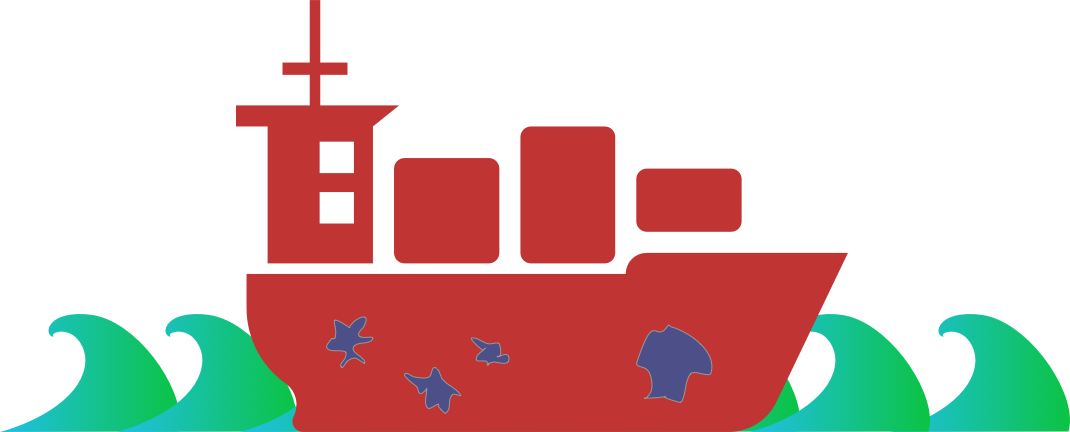
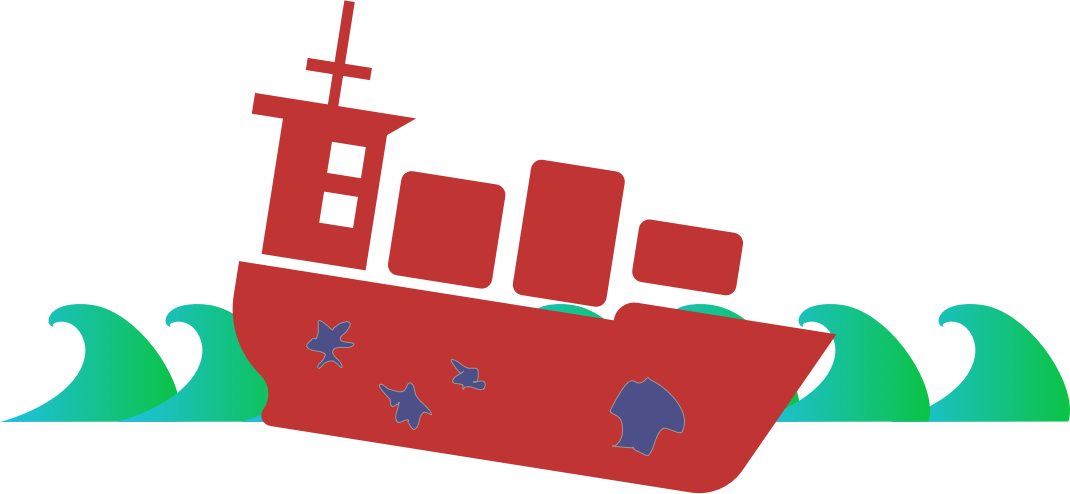
Blogging 2017-11-23

Changed region(s): [[0.0, 0.0, 1.0, 1.0], [0.5551, 0.7523, 0.6785, 0.9329], [0.4009, 0.7222, 0.4935, 0.8426]]

diff --git a/_posts/2000-01-01-in-the-weeds.md b/_posts/2000-01-01-in-the-weeds.md
@@ -93,14 +93,55 @@ Tree graphs are _great_ to show how certain agencies are causing a disproportion
 
 These graphs provided the political insurance needed to to approach the partner agencies on the behalf of the board, which is much safer than enduring the resentment engendered otherwise.
 
-When approaching the offending agency, it helps to have a plan.  In TX-601 we called these "Data Quality Action Plans" and consisted a list of all the errors needing to be repaired, and [SMART goals](https://en.wikipedia.org/wiki/SMART_criteria).  
+When approaching the troubled agency, it helps to have a plan.  In TX-601 we called these "Data Quality Action Plans" and consisted a list of all the errors needing to be repaired, and a [SMART goal](https://en.wikipedia.org/wiki/SMART_criteria).
 
-![](https://ladvien.com/images/boat-with-holes.png)
-
-No one will trust reports without good data
-Show Tree Graph
+By focusing on the agency which has the most data errors it is like you are on a ship with many holes, possibly sinking.  Before bailing water, or patching small holes, you patch the biggest, as it'll have the greatest impact on the entire ship
+![](https://ladvien.com/images/boat-with-holes.PNG)
 
 ## DTR 
+
+Define the relationship.  This may have already be done for you, but if it hasn't, please don't underestimate how powerful an agency's perception of your responsibilities.
+
+For example, within three months of starting I received a call from shelter intake staff.  He was upset because he wasn't able to scan-in clients.  He "didn't have time to troubleshoot" and suggested I drive down, which I did.  Shortly after I arrived I realized the problem was his computer was shorting--sparks were clear.  I let him know he would need to contact his IT department to get it addressed, to which he stated, "I thought you were the IT department?" After explaining I wasn't, he still insisted I fixed it since it kept him from recording HMIS data and "that was my job."
+
+Take time, and do it early, to explain to what your role is.  For me I listed bullets of what were my responsibilities and what were not:
+
+HMIS System Administrator Responsibilities
+
+* Data Quality
+* Timely enabling / disabling user permissions
+* Assessing software defects
+* Providing technical assistance
+* Conducting trainings on how to use the software
+* Facilitating oversight and guidance committees
+* Communicating with end-users when system issues impact their work
+* Technical assistance on producing CAPER
+* Technical assistance on producing APR
+* Technical assistance on running standard reports
+* Federal system reports:
+  * 1. System Performance Measures
+  * 2. Annual Homelessness Assessment Report
+  * 3. Point-in-Time (PIT)
+  * 4. Housing Inventory Count (HIC)
+  * 5. HUD Data Quality Report (HDQ)
+  * 6. Coordinated Entry Reports
+* Supporting ESG Participating Jurisdictions
+* Supporting COC Lead
+
+These responsibilities I would continually message.  It is important they are understood for both sides.  End-users need to know your are there to support their efforts.  _But_, it is also important they understand _how_ you can and may help.
+
+Along side this list of how we could help, I had a list of how we could not help (at least, not guaranteed assistance).
+
+_*NOT*_ HMIS System Administrator Responsibilities
+* Fixing equipment
+* Generating CAPER or APR on an agency's behalf
+* Fixing data errors created by an end-user(s)
+* Generating standard reports for an agency
+* Meeting (all) customization requests
+* Generating data or reports for domestic violence providers (as they are prohibited from participating in the HMIS)
+* Fulfilling custom report requests in an unrealistic time frame (we would advertise a five business day notice).
+* Providing routine trainings for less than four end-users.  Or, short notice ad hoc trainings.
+* Adjusting system reports to bolster performance (these request as insidious)
 
 ## Find _Your_ Tools
 
@@ -130,6 +171,26 @@ Taking care of the date = cook
 Pulling reports for you = your cook chewing your food
 
 ## Get a Help Desk
+
+If you are not already, you will become overcome with requests.  Everyone will be emailing you their wants like you're Santa Clause in November.  This is dangerous.  Your end-users only see their one request and they don't understand why it is taking you more than an hour to fulfill it.
+
+Please tell me you have staff?  HUD recommends having one FTE for every 75 end-users.  For us, this meant we should have had 3.73 FTEs, but we operated with 3.  However, your staff will do little good if everyone is sending their requests directly to you.
+
+Sure, you'll try forwarding the email to Joe, but then Joe gets sick and the request sits in his inbox for several days.
+
+Get a Help Desk.
+
+For us, we had next to no-budget for a help desk, so I spun up a server and used Drupal's ticket module to create a help desk.  This allowed us to implement a help desk for about $12.50.  Not too shabby.  
+
+Getting the end-users to use the help desk was painful.  Trying to convince them it was in their best interest was not easy.  But, eventually, messaging our ability to collaborate on ticket responses won through.  They start using ticket system.
+
+There were many other advantages of using a help desk.  As a manager, I was able to review my staff's responses to request.  If I were a better manager (or if I had more time, hard to tell which it was) I could have used this information to coach my staff on being customer service focused.  Making sure we are providing friendly and relevant responses to all requests.
+
+Another advantage is having a log of all requests made to our department in a searchable fashion.  This would allow us to review statements we were being unresponsive with ticket links containing time stamps.  I'd like to tell you being prepared to defend your department is unnecessary, but sadly, that's not true.
+
+## Get Used to Bus Trends
+
+
 
 ## Automate Everything
 
